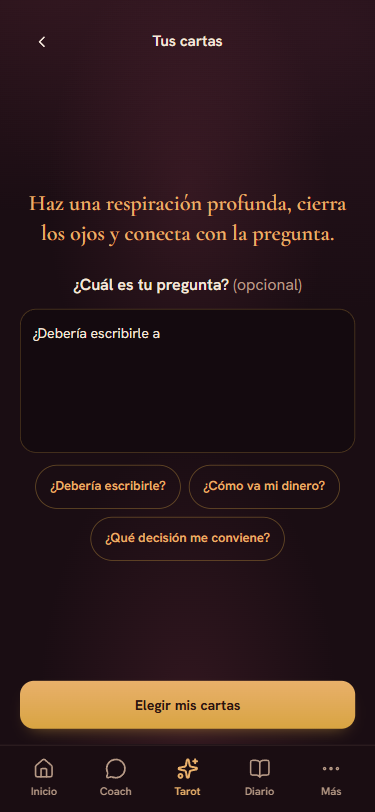
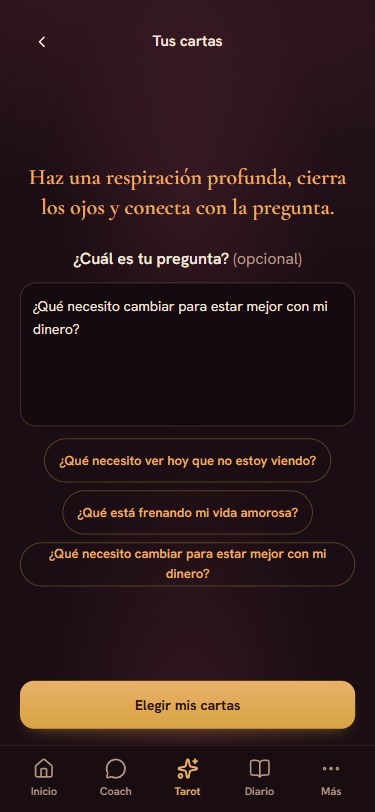
feat(tarot): tres preguntas generales fijas en las cajitas del ritual

Changed region(s): [[0.0587, 0.1847, 0.9387, 0.431], [0.088, 0.5234, 0.9093, 0.7389]]

diff --git a/app/app/(tabs)/tarot/page.tsx b/app/app/(tabs)/tarot/page.tsx
@@ -418,29 +418,29 @@ export default function TarotPage() {
                     ref={preguntaRef}
                     value={pregunta}
                     onChange={(e) => setPregunta(e.target.value.slice(0, MAX_PREGUNTA))}
-                    placeholder="Escribe aquí tu pregunta, o toca una frase para empezarla…"
+                    placeholder="Escribe aquí tu pregunta, toca una de abajo, o déjalo en blanco y que hablen las cartas…"
                     rows={4}
                     className="h-28 w-full resize-none bg-transparent text-[14px] leading-relaxed text-[var(--text-primary)] placeholder:text-[var(--text-tertiary)] focus:outline-none"
                   />
                 </div>
                 <div className="mt-3 flex flex-wrap justify-center gap-2">
-                  {/* Cada cajita EMPIEZA la frase y la persona la completa: una pregunta con su dato real
-                      (a quién, qué decisión) da una lectura mucho más cierta que una pregunta vacía. */}
+                  {/* Preguntas generales, abiertas y sobre ella misma (no sobre lo que piensa otra persona):
+                      sirven sin contexto y las cartas las leen bien. Se pueden editar tras tocarlas. */}
                   {[
-                    ['¿Debería escribirle?', '¿Debería escribirle a '],
-                    ['¿Cómo va mi dinero?', '¿Cómo va mi dinero respecto a '],
-                    ['¿Qué decisión me conviene?', '¿Qué me conviene decidir sobre '],
-                  ].map(([ej, inicio]) => (
+                    '¿Qué necesito ver hoy que no estoy viendo?',
+                    '¿Qué está frenando mi vida amorosa?',
+                    '¿Qué necesito cambiar con mi dinero?',
+                  ].map((ej) => (
                     <button
                       key={ej}
                       type="button"
                       onClick={() => {
-                        setPregunta(inicio);
+                        setPregunta(ej);
                         window.setTimeout(() => {
                           const caja = preguntaRef.current;
                           if (!caja) return;
                           caja.focus();
-                          caja.setSelectionRange(inicio.length, inicio.length);
+                          caja.setSelectionRange(ej.length, ej.length);
                         }, 0);
                       }}
                       className="min-h-11 rounded-full border border-[color-mix(in_oklab,var(--accent)_40%,transparent)] px-3.5 text-[13px] font-semibold text-[var(--accent-lite)] [touch-action:manipulation]"

diff --git a/ESTADO.md b/ESTADO.md
@@ -1011,3 +1011,5 @@ sabemos / qué observamos / posible riesgo / pregunta para ti / qué podrías re
 🔄 2026-10-14: Diario — al llegar desde "Guardar en mi diario" de una tirada, la entrada se guarda sola y LUMA muestra su reflexión (un toque, no dos); si no hay lectura disponible se deja la caja con el botón. Verificado: se dispara y llama al servidor; el camino feliz completo NO se vio en pantalla (mi conexión de pruebas ya agotó el tope de 5/día). Sin publicar.
 
 🔄 2026-10-14: Tarot — (1) la IA ya no inventa la vida de la persona (regla "NO INVENTES SU VIDA" en app/api/tarot/route.ts; preguntas vagas → posibilidades + pregunta final); (2) las cajitas de pregunta del ritual EMPIEZAN la frase y dejan completarla (cursor al final). Probado con 5 lecturas reales antes/después y captura 375 (docs/revisiones/tarot-cajitas-375.png). Sin publicar.
+
+🔄 2026-10-14: Tarot ritual — 3 cajitas fijas y generales: "¿Qué necesito ver hoy que no estoy viendo?", "¿Qué está frenando mi vida amorosa?", "¿Qué necesito cambiar con mi dinero?" (reemplazan las que empezaban la frase). Sin publicar junto con el cambio anti-invención.
